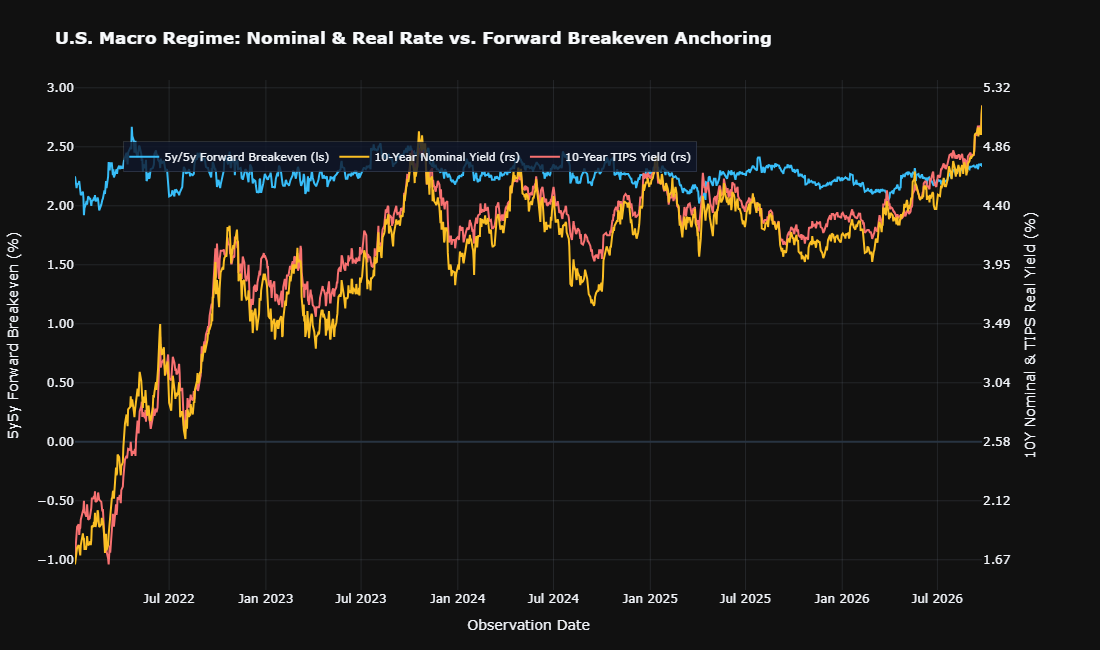
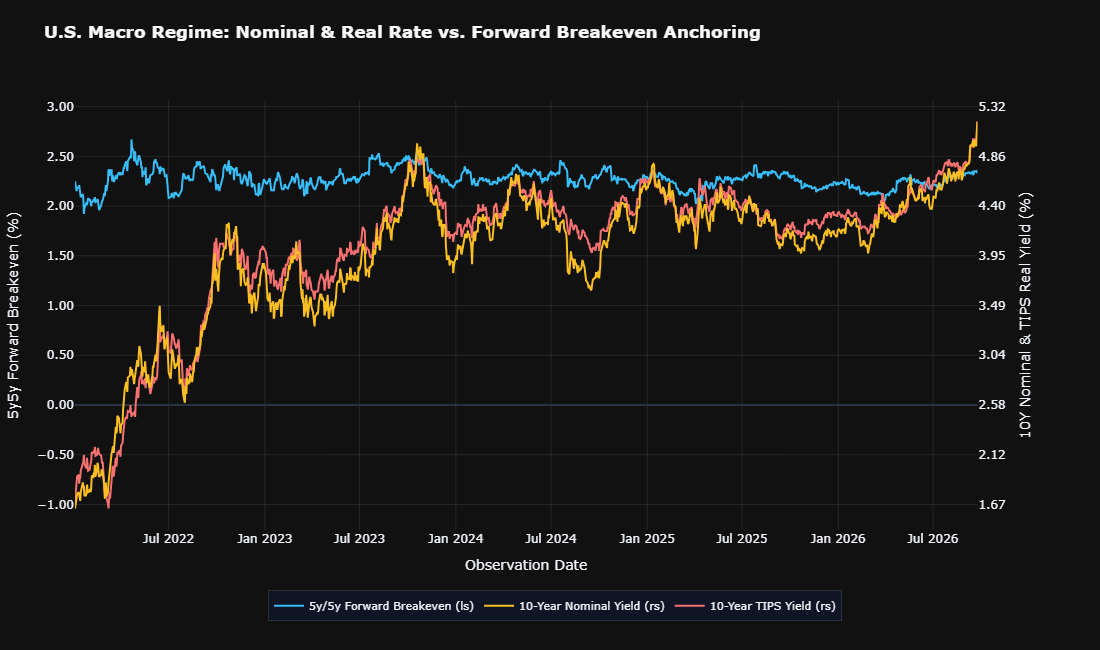
Add files via upload

diff --git a/notebooks/TERM_STRUCTURE_ANALYTICS_OUTPUT.md b/notebooks/TERM_STRUCTURE_ANALYTICS_OUTPUT.md
@@ -1,7 +1,6 @@
 ## U.S. RATES & BREAKEVEN INFLATION RESEARCH NOTE
 **Settlement Date:** 2026-09-24 | **Model:** Dual Nelson-Siegel Decomposition (D'Amico, Kim, and Wei (2018) Structural Accounting Framework)
 
-![Term Structure Dashboard](rates_dashboard.png)
 
 ### 1. Executive Summary & Market Context
 
@@ -47,9 +46,9 @@ calibrated via observable market liquidity proxies rather than the continuous-ti
     2. *Regime Shifts*: Liquidity wedge parameters assume normal market conditions; under tail systemic crises, manually swap out the default liquidity estimates for real-time market spreads.
 ---
 
-### 4.6 Quantitative Dashboard Figure Interpretation
+### 3. Quantitative Dashboard Figure Interpretation
 
-* **Figure 1 (Zero Yield Term Structure & Macro Stance)**: The nominal curve trades **upward-sloping (steep)** (2s10s spread: **+31.4 bps**, spanning 4.91% to 5.45%), while the real TIPS curve exhibits a 2s10s slope of **-11.4 bps** (2.98% to 3.19%). Real yields are firmly restrictive across all tenors (trough at **2.71%**), confirming that policy rates ($r > r^*$) maintain high hurdle rates across risk assets. Ten-year real rates are anchoring at an elevated **2.86%**, discounting post-GFC secular stagnation.
+* **Figure 1 (Zero Yield Term Structure & Macro Stance)**: The nominal curve trades **upward-sloping (steep)** (2s10s spread: **+31.4 bps**, spanning 4.91% to 5.22%), while the real TIPS curve exhibits a 2s10s slope of **-11.4 bps** (2.98% to 2.86%). Real yields are firmly restrictive across all tenors (trough at **2.71%**), confirming that policy rates ($r > r^*$) maintain high hurdle rates across risk assets. Ten-year real rates are anchoring at an elevated **2.86%**, discounting post-GFC secular stagnation.
 
 * **Figure 2 (Spot BEI Breakdown & Market Frictions)**: Seasonally adjusted spot breakevens span **184.6 to 234.1 bps**. At the 10Y tenor, consensus survey CPI sits **23.1 bps above** market-implied pricing. The DKW-calibrated liquidity wedge imposes a **6.0 bps penalty at 2Y**, decaying asymptotically to **1.6 bps at 30Y**.
 
@@ -61,12 +60,12 @@ calibrated via observable market liquidity proxies rather than the continuous-ti
 
 * **Figure 6 (90-Day PnL Attribution Across Macro Scenarios)**: Across stress regimes, maximum upside occurs under **OIL-05 (+USD 2,652,600.99)**, while maximum loss occurs under **OIL-06 (-USD 2,517,972.07)**. Regulatory 10-day 99% Historical VaR evaluates to **USD 1,341,184.26** (Expected Shortfall: **USD 1,533,377.19**), demonstrating capital adequacy under FRTB stress.
 
-
+![Term Structure Dashboard](rates_dashboard.png)
 ---
 
-## 5. Trade Sizing, Risk Sensitivity & Execution
+## 4. Trade Sizing, Risk Sensitivity & Execution
 
-### 5.1 Dynamic Trade Sizing (10Y Benchmark Box)
+### 4.1 Dynamic Trade Sizing (10Y Benchmark Box)
 $$\text{Position} = \text{Long USD 100M Par 10Y Nominal} + \text{Short 10Y TIPS}$$
 
 | Metric | Nominal Leg | TIPS Hedged Leg | Net / Status |
@@ -78,7 +77,7 @@ $$\text{Position} = \text{Long USD 100M Par 10Y Nominal} + \text{Short 10Y TIPS}
 
 ---
 
-### 5.2 Key Rate Duration (KRD) Bucket Decomposition (10Y Benchmark)
+### 4.2 Key Rate Duration (KRD) Bucket Decomposition (10Y Benchmark)
 
 | Key Tenor | 2Y Bucket | 5Y Bucket | 10Y Bucket | 30Y Bucket | Total Duration |
 | :--- | :---: | :---: | :---: | :---: | :---: |
@@ -86,7 +85,7 @@ $$\text{Position} = \text{Long USD 100M Par 10Y Nominal} + \text{Short 10Y TIPS}
 
 ---
 
-### 5.3 Regulatory Market Risk (FRTB / Basel III Standards)
+### 4.3 Regulatory Market Risk (FRTB / Basel III Standards)
 
 * **10-Day 99% Historical Simulation VaR**: USD 1,341,184.26
 * **10-Day 99% Expected Shortfall (ES)**: USD 1,533,377.19
@@ -97,7 +96,7 @@ $$\text{Position} = \text{Long USD 100M Par 10Y Nominal} + \text{Short 10Y TIPS}
 
 ---
 
-### 5.4 Stress Testing & PnL Attribution Analytics
+### 4.4 Stress Testing & PnL Attribution Analytics
 
 | Scenario ID | Regime Description | $\Delta y_{\text{Nom}}$ | $\Delta y_{\text{TIPS}}$ | Delta PnL (USD) | Gamma PnL (USD) | Total Horizon PnL (USD) |
 | :--- | :--- | :---: | :---: | :---: | :---: | :---: |
@@ -110,7 +109,7 @@ $$\text{Position} = \text{Long USD 100M Par 10Y Nominal} + \text{Short 10Y TIPS}
 
 ---
 
-### 5.5 10s30s Duration-Neutral Curve Box Structure
+### 4.5 10s30s Duration-Neutral Curve Box Structure
 
 $$\text{Position} = \text{Long 10Y Box (+USD 100M)} + \text{Short 30Y Box (-USD 33.37M)}$$
 
